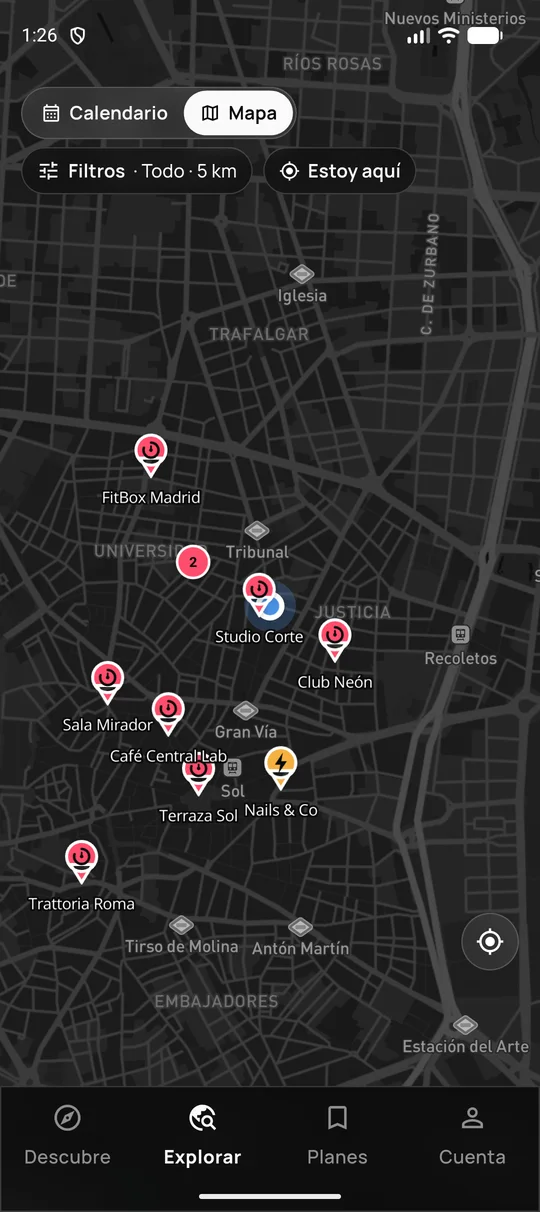
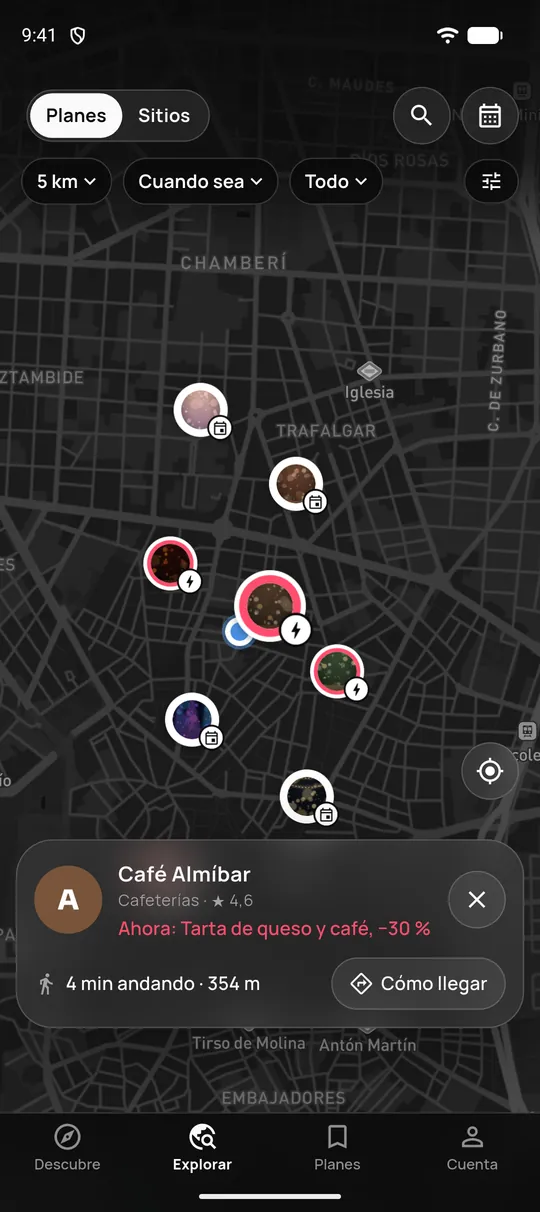
Capturas de la portada al día: la fila de filtros de ahora, con datos inventados
feed, detail, agenda y map.webp rehechas desde la app (mismos nombres y tamaño,
540×1212); ya no enseñan «Filtros · Todo · 5 km» ni «Estoy aquí». Sin personas,
marcas reales ni precios del plan. ?v=20261106 en todos los sitios que las usan
(portada, cómo funciona y prensa, ES y EN), porque van en la caché un año.

diff --git a/index.html b/index.html
@@ -84,7 +84,7 @@ if(s?/^(en|fr|de|it)$/.test(s):/^(en|fr|de|it)\b/i.test(navigator.language||''))
     <p class="note">App para Android e iPhone, muy pronto. Mientras tanto, todo funciona desde aquí.</p>
   </div>
   <div class="hero-visual">
-    <div class="phone"><img src="/assets/screens/feed.webp?v=20261001" alt="Klendar" width="540" height="1212" fetchpriority="high"></div>
+    <div class="phone"><img src="/assets/screens/feed.webp?v=20261106" alt="Klendar" width="540" height="1212" fetchpriority="high"></div>
     <div class="float a">⚡ 1 h 31 min<small>para canjear</small></div>
     <div class="float b">📍 262 m<small>a pie desde ti</small></div>
   </div>
@@ -105,7 +105,7 @@ if(s?/^(en|fr|de|it)$/.test(s):/^(en|fr|de|it)\b/i.test(navigator.language||''))
   <span class="eyebrow">Cómo funciona</span>
   <h2>Mira, elige y enséñalo en la puerta</h2>
   <div class="pasos"><div><span class="paso-num">1</span><h3>Mira lo que hay cerca</h3><p>Ofertas que duran unas horas y eventos con fecha, ordenados por distancia.</p></div><div><span class="paso-num">2</span><h3>Guárdalo o pide tu código</h3><p>Los eventos, a tus planes. Las ofertas, un QR antes de que acabe la cuenta atrás.</p></div><div><span class="paso-num">3</span><h3>Enséñalo y listo</h3><p>El negocio lo escanea. Cada código vale una vez; sin tarjetas ni registros raros.</p></div></div>
-  <div class="screens compactas" tabindex="0" role="region" aria-label="Así se ve"><figure><div class="phone"><img src="/assets/screens/agenda.webp?v=20260926" alt="Agenda" loading="lazy" width="540" height="1212"></div><figcaption>Agenda<small>Calendario con lo que hay cada día</small></figcaption></figure><figure><div class="phone"><img src="/assets/screens/map.webp?v=20260926" alt="Mapa" loading="lazy" width="540" height="1212"></div><figcaption>Mapa<small>Negocios con algo activo y cuánto tardas andando</small></figcaption></figure><figure><div class="phone"><img src="/assets/screens/detail.webp?v=20260926" alt="Detalle" loading="lazy" width="540" height="1212"></div><figcaption>Detalle<small>Cuándo, dónde, cómo llegar y al calendario</small></figcaption></figure></div>
+  <div class="screens compactas" tabindex="0" role="region" aria-label="Así se ve"><figure><div class="phone"><img src="/assets/screens/agenda.webp?v=20261106" alt="Agenda" loading="lazy" width="540" height="1212"></div><figcaption>Agenda<small>Calendario con lo que hay cada día</small></figcaption></figure><figure><div class="phone"><img src="/assets/screens/map.webp?v=20261106" alt="Mapa" loading="lazy" width="540" height="1212"></div><figcaption>Mapa<small>Negocios con algo activo y cuánto tardas andando</small></figcaption></figure><figure><div class="phone"><img src="/assets/screens/detail.webp?v=20261106" alt="Detalle" loading="lazy" width="540" height="1212"></div><figcaption>Detalle<small>Cuándo, dónde, cómo llegar y al calendario</small></figcaption></figure></div>
   <p class="mas"><a href="/como-funciona/">Todo lo que hace Klendar →</a></p>
 </div></section>
 

diff --git a/en/index.html b/en/index.html
@@ -78,7 +78,7 @@
     <p class="note">Android and iPhone app coming soon. Meanwhile, everything works right here.</p>
   </div>
   <div class="hero-visual">
-    <div class="phone"><img src="/assets/screens/feed.webp?v=20261001" alt="Klendar" width="540" height="1212" fetchpriority="high"></div>
+    <div class="phone"><img src="/assets/screens/feed.webp?v=20261106" alt="Klendar" width="540" height="1212" fetchpriority="high"></div>
     <div class="float a">⚡ 1 h 31 min<small>left to redeem</small></div>
     <div class="float b">📍 262 m<small>walk from you</small></div>
   </div>
@@ -99,7 +99,7 @@
   <span class="eyebrow">How it works</span>
   <h2>Look, choose and show it at the door</h2>
   <div class="pasos"><div><span class="paso-num">1</span><h3>See what's nearby</h3><p>Deals that last a few hours and events with a date, sorted by distance.</p></div><div><span class="paso-num">2</span><h3>Save it or get your code</h3><p>Events go to your plans. Deals get a QR code before the countdown ends.</p></div><div><span class="paso-num">3</span><h3>Show it, done</h3><p>The business scans it. Each code works once; no cards, no weird sign-ups.</p></div></div>
-  <div class="screens compactas" tabindex="0" role="region" aria-label="This is what it looks like"><figure><div class="phone"><img src="/assets/screens/agenda.webp?v=20260926" alt="Agenda" loading="lazy" width="540" height="1212"></div><figcaption>Agenda<small>A calendar with what's on each day</small></figcaption></figure><figure><div class="phone"><img src="/assets/screens/map.webp?v=20260926" alt="Map" loading="lazy" width="540" height="1212"></div><figcaption>Map<small>Businesses with something live and how long it takes to walk</small></figcaption></figure><figure><div class="phone"><img src="/assets/screens/detail.webp?v=20260926" alt="Details" loading="lazy" width="540" height="1212"></div><figcaption>Details<small>When, where, directions and add to calendar</small></figcaption></figure></div>
+  <div class="screens compactas" tabindex="0" role="region" aria-label="This is what it looks like"><figure><div class="phone"><img src="/assets/screens/agenda.webp?v=20261106" alt="Agenda" loading="lazy" width="540" height="1212"></div><figcaption>Agenda<small>A calendar with what's on each day</small></figcaption></figure><figure><div class="phone"><img src="/assets/screens/map.webp?v=20261106" alt="Map" loading="lazy" width="540" height="1212"></div><figcaption>Map<small>Businesses with something live and how long it takes to walk</small></figcaption></figure><figure><div class="phone"><img src="/assets/screens/detail.webp?v=20261106" alt="Details" loading="lazy" width="540" height="1212"></div><figcaption>Details<small>When, where, directions and add to calendar</small></figcaption></figure></div>
   <p class="mas"><a href="/en/how-it-works/">Everything Klendar does →</a></p>
 </div></section>
 

diff --git a/en/how-it-works/index.html b/en/how-it-works/index.html
@@ -86,7 +86,7 @@
 <section><div class="wrap">
   <span class="eyebrow">The app</span>
   <h2>This is what it looks like</h2>
-  <div class="screens"><figure><div class="phone"><img src="/assets/screens/agenda.webp?v=20260926" alt="Agenda" loading="lazy" width="540" height="1212"></div><figcaption>Agenda<small>A calendar with what's on each day</small></figcaption></figure><figure><div class="phone"><img src="/assets/screens/map.webp?v=20260926" alt="Map" loading="lazy" width="540" height="1212"></div><figcaption>Map<small>Businesses with something live and how long it takes to walk</small></figcaption></figure><figure><div class="phone"><img src="/assets/screens/detail.webp?v=20260926" alt="Details" loading="lazy" width="540" height="1212"></div><figcaption>Details<small>When, where, directions and add to calendar</small></figcaption></figure></div>
+  <div class="screens"><figure><div class="phone"><img src="/assets/screens/agenda.webp?v=20261106" alt="Agenda" loading="lazy" width="540" height="1212"></div><figcaption>Agenda<small>A calendar with what's on each day</small></figcaption></figure><figure><div class="phone"><img src="/assets/screens/map.webp?v=20261106" alt="Map" loading="lazy" width="540" height="1212"></div><figcaption>Map<small>Businesses with something live and how long it takes to walk</small></figcaption></figure><figure><div class="phone"><img src="/assets/screens/detail.webp?v=20261106" alt="Details" loading="lazy" width="540" height="1212"></div><figcaption>Details<small>When, where, directions and add to calendar</small></figcaption></figure></div>
   <p class="mas"><a href="/en/faq/">All questions</a> · <a href="/en/support/">Support</a></p>
 </div></section>
 </main>

diff --git a/como-funciona/index.html b/como-funciona/index.html
@@ -86,7 +86,7 @@
 <section><div class="wrap">
   <span class="eyebrow">La app</span>
   <h2>Así se ve</h2>
-  <div class="screens"><figure><div class="phone"><img src="/assets/screens/agenda.webp?v=20260926" alt="Agenda" loading="lazy" width="540" height="1212"></div><figcaption>Agenda<small>Calendario con lo que hay cada día</small></figcaption></figure><figure><div class="phone"><img src="/assets/screens/map.webp?v=20260926" alt="Mapa" loading="lazy" width="540" height="1212"></div><figcaption>Mapa<small>Negocios con algo activo y cuánto tardas andando</small></figcaption></figure><figure><div class="phone"><img src="/assets/screens/detail.webp?v=20260926" alt="Detalle" loading="lazy" width="540" height="1212"></div><figcaption>Detalle<small>Cuándo, dónde, cómo llegar y al calendario</small></figcaption></figure></div>
+  <div class="screens"><figure><div class="phone"><img src="/assets/screens/agenda.webp?v=20261106" alt="Agenda" loading="lazy" width="540" height="1212"></div><figcaption>Agenda<small>Calendario con lo que hay cada día</small></figcaption></figure><figure><div class="phone"><img src="/assets/screens/map.webp?v=20261106" alt="Mapa" loading="lazy" width="540" height="1212"></div><figcaption>Mapa<small>Negocios con algo activo y cuánto tardas andando</small></figcaption></figure><figure><div class="phone"><img src="/assets/screens/detail.webp?v=20261106" alt="Detalle" loading="lazy" width="540" height="1212"></div><figcaption>Detalle<small>Cuándo, dónde, cómo llegar y al calendario</small></figcaption></figure></div>
   <p class="mas"><a href="/preguntas/">Todas las preguntas</a> · <a href="/soporte/">Soporte</a></p>
 </div></section>
 </main>

diff --git a/prensa/index.html b/prensa/index.html
@@ -75,7 +75,7 @@
 <h2>Material</h2>
 <ul>
   <li><a href="/assets/icon-512.png">Icono (PNG 512)</a> · <a href="/assets/symbol.png">Símbolo</a> · <a href="/assets/og.png">Imagen social</a></li>
-  <li>Capturas: <a href="/assets/screens/feed.webp?v=20261001">descubrir</a> · <a href="/assets/screens/detail.webp?v=20261001">ficha</a> · <a href="/assets/screens/agenda.webp?v=20261001">agenda</a> · <a href="/assets/screens/map.webp?v=20261001">mapa</a></li>
+  <li>Capturas: <a href="/assets/screens/feed.webp?v=20261106">descubrir</a> · <a href="/assets/screens/detail.webp?v=20261106">ficha</a> · <a href="/assets/screens/agenda.webp?v=20261106">agenda</a> · <a href="/assets/screens/map.webp?v=20261106">mapa</a></li>
   <li><a href="/assets/kit/klendar-guia-negocios.pdf">Guía para negocios (PDF)</a> · <a href="/assets/kit/klendar-cartel.pdf">Cartel con QR (PDF)</a></li>
 </ul>
 <p class="note">El nombre se escribe <strong>Klendar</strong>, con K y sin acentos. El color de marca es el coral <code>#FF4D6D</code> sobre fondo tinta <code>#0A0A0A</code>. Se puede usar el logotipo tal cual, sin deformarlo ni cambiarle el color.</p>

diff --git a/en/press/index.html b/en/press/index.html
@@ -75,7 +75,7 @@
 <h2>Assets</h2>
 <ul>
   <li><a href="/assets/icon-512.png">Icon (PNG 512)</a> · <a href="/assets/symbol.png">Symbol</a> · <a href="/assets/og.png">Social image</a></li>
-  <li>Screenshots: <a href="/assets/screens/feed.webp?v=20261001">discover</a> · <a href="/assets/screens/detail.webp?v=20261001">detail</a> · <a href="/assets/screens/agenda.webp?v=20261001">agenda</a> · <a href="/assets/screens/map.webp?v=20261001">map</a></li>
+  <li>Screenshots: <a href="/assets/screens/feed.webp?v=20261106">discover</a> · <a href="/assets/screens/detail.webp?v=20261106">detail</a> · <a href="/assets/screens/agenda.webp?v=20261106">agenda</a> · <a href="/assets/screens/map.webp?v=20261106">map</a></li>
   <li><a href="/assets/kit/klendar-guia-negocios.pdf">Business guide (PDF, Spanish)</a> · <a href="/assets/kit/klendar-cartel.pdf">Poster with QR (PDF)</a></li>
 </ul>
 <p class="note">The name is written <strong>Klendar</strong>, with a K. The brand colour is coral <code>#FF4D6D</code> on ink <code>#0A0A0A</code>. The logo can be used as it is, without stretching it or changing its colour.</p>

diff --git a/build_site.py b/build_site.py
@@ -324,7 +324,7 @@ def landing(t):
 {{"@type":"MobileApplication","name":"Klendar","operatingSystem":"Android, iOS","applicationCategory":"LifestyleApplication","offers":{{"@type":"Offer","price":"0","priceCurrency":"EUR"}},"description":"{t['desc']}"}}]}}</script>'''
     steps = ''.join(f'<div class="step"><h3>{h}</h3><p>{p}</p></div>' for h, p in t['steps'])
     feats = ''.join(f'<div class="card"><div class="ic">{i}</div><h3>{h}</h3><p>{p}</p></div>' for i, h, p in t['feats'])
-    screens = ''.join(f'<figure><div class="phone"><img src="/assets/screens/{f}.webp?v=20260926" alt="{h}" loading="lazy" width="540" height="1212"></div><figcaption>{h}<small>{s}</small></figcaption></figure>' for f, h, s in t['screens'])
+    screens = ''.join(f'<figure><div class="phone"><img src="/assets/screens/{f}.webp?v=20261106" alt="{h}" loading="lazy" width="540" height="1212"></div><figcaption>{h}<small>{s}</small></figcaption></figure>' for f, h, s in t['screens'])
     points = ''.join(f'<li>{p}</li>' for p in t['biz_points'])
     stats = ''.join(f'<div><b>{b}</b><span>{s}</span></div>' for b, s in t['biz_stats'])
     faqs = ''.join(f'<details><summary>{q}</summary><p>{a}</p></details>' for q, a in t['faqs'])
@@ -348,7 +348,7 @@ def landing(t):
     <p class="note">{t['app_note']}</p>
   </div>
   <div class="hero-visual">
-    <div class="phone"><img src="/assets/screens/feed.webp?v=20261001" alt="Klendar" width="540" height="1212" fetchpriority="high"></div>
+    <div class="phone"><img src="/assets/screens/feed.webp?v=20261106" alt="Klendar" width="540" height="1212" fetchpriority="high"></div>
     <div class="float a">{fa[0]}<small>{fa[1]}</small></div>
     <div class="float b">{fb[0]}<small>{fb[1]}</small></div>
   </div>
@@ -415,7 +415,7 @@ def como_funciona(t):
     path = t['how_url']
     steps = ''.join(f'<div class="step"><h3>{h}</h3><p>{p}</p></div>' for h, p in t['steps'])
     feats = ''.join(f'<div class="card"><div class="ic">{i}</div><h3>{h}</h3><p>{p}</p></div>' for i, h, p in t['feats'])
-    screens = ''.join(f'<figure><div class="phone"><img src="/assets/screens/{f}.webp?v=20260926" alt="{h}" loading="lazy" width="540" height="1212"></div><figcaption>{h}<small>{s_}</small></figcaption></figure>' for f, h, s_ in t['screens'])
+    screens = ''.join(f'<figure><div class="phone"><img src="/assets/screens/{f}.webp?v=20261106" alt="{h}" loading="lazy" width="540" height="1212"></div><figcaption>{h}<small>{s_}</small></figcaption></figure>' for f, h, s_ in t['screens'])
     body = f'''
 <main id="contenido">
 <section class="junto" style="padding-top:48px"><div class="wrap">

diff --git a/build_pages.py b/build_pages.py
@@ -511,7 +511,7 @@ PAGINAS['prensa'] = (
 <h2>Material</h2>
 <ul>
   <li><a href="/assets/icon-512.png">Icono (PNG 512)</a> · <a href="/assets/symbol.png">Símbolo</a> · <a href="/assets/og.png">Imagen social</a></li>
-  <li>Capturas: <a href="/assets/screens/feed.webp?v=20261001">descubrir</a> · <a href="/assets/screens/detail.webp?v=20261001">ficha</a> · <a href="/assets/screens/agenda.webp?v=20261001">agenda</a> · <a href="/assets/screens/map.webp?v=20261001">mapa</a></li>
+  <li>Capturas: <a href="/assets/screens/feed.webp?v=20261106">descubrir</a> · <a href="/assets/screens/detail.webp?v=20261106">ficha</a> · <a href="/assets/screens/agenda.webp?v=20261106">agenda</a> · <a href="/assets/screens/map.webp?v=20261106">mapa</a></li>
   <li><a href="/assets/kit/klendar-guia-negocios.pdf">Guía para negocios (PDF)</a> · <a href="/assets/kit/klendar-cartel.pdf">Cartel con QR (PDF)</a></li>
 </ul>
 <p class="note">El nombre se escribe <strong>Klendar</strong>, con K y sin acentos. El color de marca es el coral <code>#FF4D6D</code> sobre fondo tinta <code>#0A0A0A</code>. Se puede usar el logotipo tal cual, sin deformarlo ni cambiarle el color.</p>
@@ -535,7 +535,7 @@ PAGINAS['prensa'] = (
 <h2>Assets</h2>
 <ul>
   <li><a href="/assets/icon-512.png">Icon (PNG 512)</a> · <a href="/assets/symbol.png">Symbol</a> · <a href="/assets/og.png">Social image</a></li>
-  <li>Screenshots: <a href="/assets/screens/feed.webp?v=20261001">discover</a> · <a href="/assets/screens/detail.webp?v=20261001">detail</a> · <a href="/assets/screens/agenda.webp?v=20261001">agenda</a> · <a href="/assets/screens/map.webp?v=20261001">map</a></li>
+  <li>Screenshots: <a href="/assets/screens/feed.webp?v=20261106">discover</a> · <a href="/assets/screens/detail.webp?v=20261106">detail</a> · <a href="/assets/screens/agenda.webp?v=20261106">agenda</a> · <a href="/assets/screens/map.webp?v=20261106">map</a></li>
   <li><a href="/assets/kit/klendar-guia-negocios.pdf">Business guide (PDF, Spanish)</a> · <a href="/assets/kit/klendar-cartel.pdf">Poster with QR (PDF)</a></li>
 </ul>
 <p class="note">The name is written <strong>Klendar</strong>, with a K. The brand colour is coral <code>#FF4D6D</code> on ink <code>#0A0A0A</code>. The logo can be used as it is, without stretching it or changing its colour.</p>

diff --git a/README.md b/README.md
@@ -12,7 +12,7 @@ Web pública de Klendar: landing, páginas legales y páginas de enlace (`/o/<id
 
 - `python build_site.py` → landing ES (`index.html`), EN (`en/index.html`) y soporte EN (`en/support/`). Textos en el dict `T` del script.
 - `python build_legal.py` → páginas legales en ES (idioma que prevalece) y su traducción informativa en `/en/{legal-notice,privacy,terms,business-terms,cookies,community-guidelines,delete-account}/` con aviso de cortesía; el mapa de rutas ES↔EN está en `ALT` (`build_site.py`) y alimenta hreflang y el selector de idioma.
-- Capturas de la app en `assets/screens/*.webp` (540 px de ancho, sacadas del emulador en español).
+- Capturas de la app en `assets/screens/*.webp` (540 px de ancho, en español, también en `/en/`; datos inventados): se rehacen desde la app con `python tool/store_screenshots.py web` (`docs/tiendas/CAPTURAS.md`) y, al cambiarlas, se sube su `?v=`.
 - Idioma: `/` es ES; en la primera visita, si el navegador está en inglés, redirige a `/en/` y se recuerda la elección del selector ES/EN (`localStorage.klendar_lang`). `hreflang` en todas las páginas.
   Francés, alemán e italiano van también a la versión inglesa y catalán, gallego y euskera a la española (`esOEn`).
 
